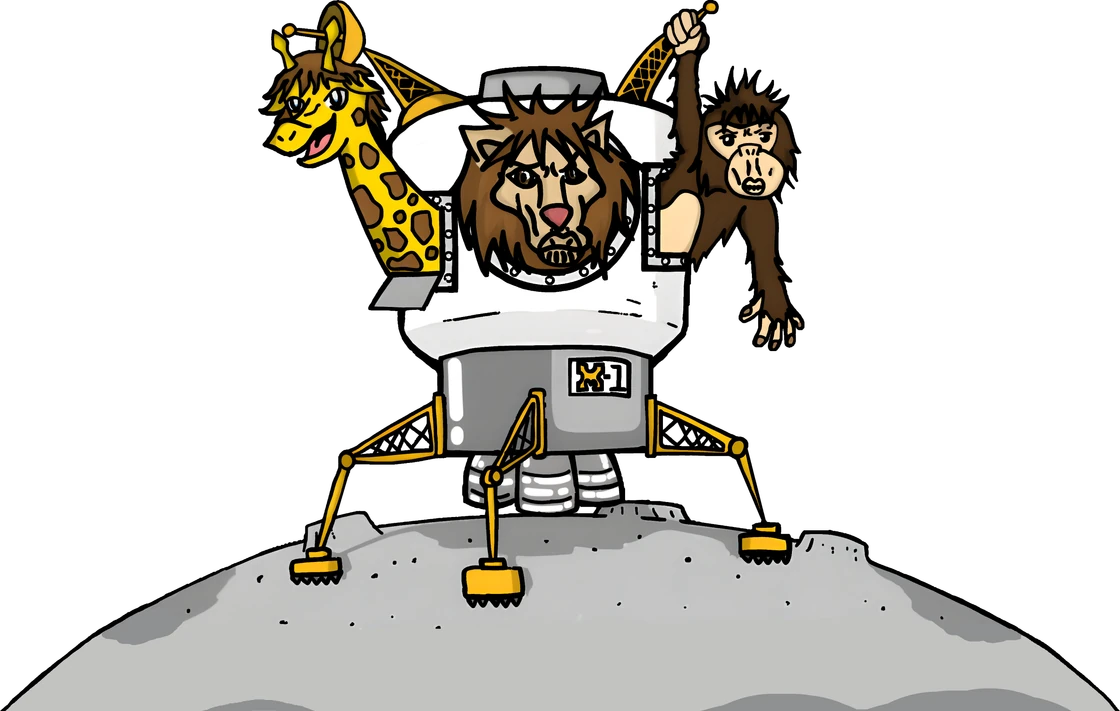
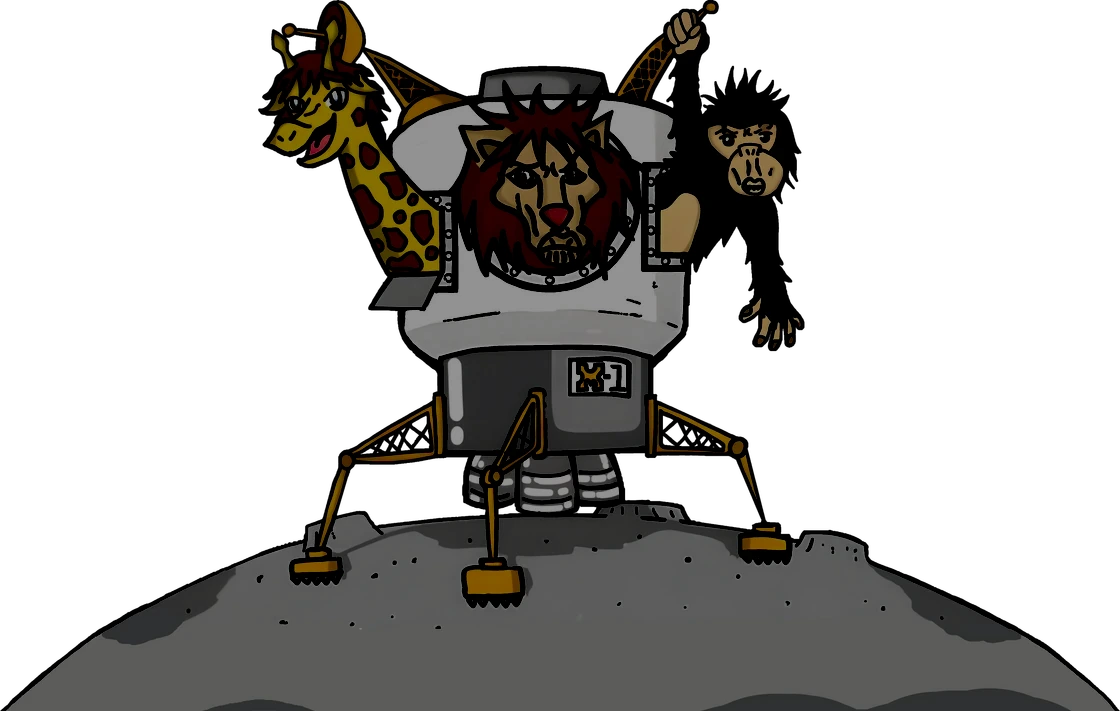
feat(design): retune the palette off the generated navy-and-gold axis
Feedback was that the app reads as machine-made, with the colour scheme
named specifically. The old ground was the second reflex, not the first:
this design correctly refused cyan-on-black sci-fi, then landed on
navy-with-a-gold-accent, which is the most-generated "premium dark tool"
palette in circulation.

The ground is now a neutral near-black whose tint scales up with
lightness, and the tint ramp is the rule rather than an oversight.
"Tint every neutral toward the brand hue" only holds for mid and light
neutrals; at near-black a warm hue reads as brown. Two warm grounds were
built and rejected on exactly that before landing here:

  navy      #080f1f  R/B 0.26
  warm #1   #0e0906  R/B 2.33  (chroma copied from the navy's 0.035)
  warm #2   #0c0a08  R/B 1.50  (halved; red-minus-blue only 4, still brown)
  neutral   #0a0a0a  R/B 1.00

Red-minus-blue is the wrong statistic at these luminances — a gap of 4 is
invisible at rgb(200) and a 50% cast at rgb(12). Judge a ground by its
hex, and at near-black by the ratio.

Healthy states stop being green. DESIGN.md's status-token rule has always
said colour is only for actionable state, and `.st--ok` was where the
shipped UI contradicted it: every ok chip, every LINKED, every "all
healthy" count rendered full-chroma green. A screenful of green dots
reporting that nothing needs doing is the generic-dashboard signature.

`--signal-bad` lifts to 0.66 because 0.64 measured 4.42:1 against
[…]

diff --git a/src/app/globals.css b/src/app/globals.css
@@ -7,24 +7,58 @@
 /* --- Tokens ------------------------------------------------------------- */
 
 :root {
-  /* Ground and structure. Every neutral is tinted toward the patch navy. */
-  --void: oklch(0.17 0.035 264);
-  --hull: oklch(0.22 0.04 264);
-  --hull-hi: oklch(0.27 0.042 264);
-  --rule: oklch(0.36 0.035 264);
-  /* Lightness fixed by WCAG 1.4.11: clears 3:1 on void, hull and hull-hi,
-     so a control's edge is identifiable on every ground it can sit on. */
-  --rule-strong: oklch(0.56 0.05 264);
+  /* Ground and structure. A neutral near-black, warming as it lightens.
+     Hue 54-58 where any hue applies at all, NOT the blue-slate axis this used
+     to sit on: navy-with-a-gold-
+     accent is the single most-generated "premium dark tool" palette in
+     circulation, and the ground reading as templated was the substance of the
+     feedback this palette answers. Warm ground also lets the seal's navy ring
+     separate from the header bar by hue, which it could not do on navy.
+     Measured, not asserted: every text token below clears 4.5:1 on all three
+     grounds, worst case 4.63 (--ink-faint on a hovered row).
+
+     THE TINT SCALES WITH LIGHTNESS, and that is the whole rule here. It took
+     three passes to get right, so the failed ones are worth recording.
+
+     "Tint every neutral toward the brand hue" is sound advice that silently
+     assumes mid-to-light neutrals. At near-black it inverts: a warm hue reads
+     as BROWN, not as a tinted grey, and the eye judges it by the red-to-blue
+     RATIO rather than the difference. Pass one copied the old navy's chroma
+     (0.035) down to 0.012, which looked conservative in OKLCH and rendered
+     #0e0906 — blue at 57% of red, unmistakably brown, and the first thing
+     anyone said about it. Pass two halved it to 0.006: #0c0a08, R/B still
+     1.50, still visibly brown. The absolute gap was only 4 by then, which is
+     why "R-B is small" was the wrong reassurance — 4 is nothing at rgb(200)
+     and a 50% cast at rgb(12).
+
+     So the ramp below: --void is neutral outright, and each lighter token
+     carries a little more hue, because that is where a tint reads as a tint.
+     The system's warmth lives in --ink, the gold, and the artwork — none of
+     which are near-black, all of which read warm without dragging the page
+     brown. Judge these by R/B in sRGB, never by chroma in OKLCH. */
+  --void: oklch(0.145 0 58);
+  --hull: oklch(0.195 0.001 56);
+  --hull-hi: oklch(0.245 0.002 54);
+  --rule: oklch(0.33 0.004 55);
+  /* Lightness fixed by WCAG 1.4.11: 4.24 / 3.92 / 3.48 against void, hull and
+     hull-hi, so a control's edge is identifiable on every ground it can sit
+     on. */
+  --rule-strong: oklch(0.56 0.008 58);
 
   /* Ink. Warm cream, tinted toward the patch gold. */
-  --ink: oklch(0.94 0.012 85);
-  --ink-dim: oklch(0.78 0.015 85);
-  --ink-faint: oklch(0.66 0.02 264);
+  --ink: oklch(0.93 0.014 85);
+  --ink-dim: oklch(0.77 0.016 80);
+  --ink-faint: oklch(0.63 0.018 70);
 
   /* Signal. Gold is identity; the three signals are semantic, never decor. */
   --gold: oklch(0.83 0.155 88);
   --gold-dim: oklch(0.72 0.14 84);
-  --signal-ok: oklch(0.76 0.13 158);
+  /* Chroma pulled from 0.13 to 0.09. `ok` is the state nobody needs to act on
+     (see the .st--ok rule below, which now spends --ink-dim on it), so the
+     token is kept only for the few places health is genuinely the subject
+     rather than the default. A full-chroma green there is the dashboard
+     signature the palette is getting away from. */
+  --signal-ok: oklch(0.74 0.09 150);
   /* Hue 50, not the 70 this started at. At 70 the warn signal sat 18 degrees
      from --gold / --tier-member with near-identical chroma and 0.03 of
      lightness between them — 0.057 apart in OKLab, which is not enough to
@@ -41,17 +75,22 @@
      0.104 clears it, and colour is never the only carrier anyway (the token
      carries its own word and glyph).
 
-     Contrast is unchanged in kind: 9.43 / 8.54 / 7.44 / 8.41 against --void /
-     --hull / --hull-hi / a hovered row, all far above the 4.5:1 it needs as
-     text and the 3:1 it needs as the .notice--warn border. */
+     Contrast on the neutral ground: 9.75 / 9.01 / 8.00 against --void /
+     --hull / --hull-hi, all far above the 4.5:1 it needs as text and the 3:1
+     it needs as the .notice--warn border. */
   --signal-warn: oklch(0.8 0.15 50);
-  --signal-bad: oklch(0.68 0.19 25);
+  /* 0.66, not the 0.68 of the navy palette and not the 0.64 the first dark probe
+     used. 0.64 measured 4.42 against --hull-hi — under the 4.5 floor exactly
+     when the pointer is on the row, which is the same class of bug as the
+     disabled-opacity one recorded further down. 0.66 measures 5.83 / 5.39 /
+     4.79. Do not darken this to match the ground. */
+  --signal-bad: oklch(0.66 0.19 26);
 
   /* Tiers separate by lightness as well as hue, so they survive
      deuteranopia and protanopia. Always paired with the name in text. */
   --tier-member: oklch(0.83 0.155 88);
-  --tier-associate: oklch(0.72 0.13 245);
-  --tier-alumni: oklch(0.76 0.13 158);
+  --tier-associate: oklch(0.72 0.115 235);
+  --tier-alumni: oklch(0.74 0.09 150);
 
   /* Space: 4 8 12 16 24 32 48 64 96. Rhythm comes from varying the step. */
   --s-1: 0.25rem;
@@ -2348,8 +2387,18 @@ h3.rule-head__label {
   border-radius: 1px;
 }
 
+/* Healthy is not an event. DESIGN.md's status-token rule has always said
+   "colour only when the state is actionable; neutral states stay --ink-dim",
+   and this rule was the place the shipped UI contradicted it: every `ok`
+   chip, every LINKED, every "all healthy" count rendered full-chroma green.
+   A screen of green dots reporting that nothing needs doing is the
+   generic-dashboard signature, and it spends the eye's attention on exactly
+   the rows that have no claim on it.
+   --signal-ok is not deleted — it is still right where health is genuinely
+   the subject rather than the default (see .notice--ok) — but the default
+   `ok` token is now as quiet as what it reports. */
 .st--ok {
-  color: var(--signal-ok);
+  color: var(--ink-dim);
 }
 
 .st--ok::before {

diff --git a/DESIGN.md b/DESIGN.md
@@ -14,37 +14,85 @@ typed telemetry, a printed seal — rendered for a dark room.
 
 The scene that fixes the theme: *an EVE player alt-tabbed at 1am, the monitor the only
 light in the room, checking whether an alt's token still works before a fleet forms.*
-That forces dark. It does not force black: the ground is the mission patch's own navy,
-so the surface belongs to the brand rather than defaulting to a void.
+That forces dark, and the audience settles it independently: EVE's own client is dark
+and its players expect dark, so a light ground is not on the table however well it
+would suit the artwork.
+
+The ground is a **neutral near-black**, not the mission patch's navy it started as.
+Navy-with-a-gold-accent is the single most-generated "premium dark tool" palette in
+circulation; the first reflex for anything space-adjacent is a cyan-on-black HUD, and
+this design correctly refused that, then landed squarely on the *second* reflex
+instead. Feedback that the app felt machine-made named the colour scheme specifically,
+and this is what it was naming.
+
+It reached neutral by overshooting twice, which is worth recording so nobody re-adds
+the tint as an improvement. Both intermediate grounds were warm — the aim was a ground
+that belonged to the brand rather than a default — and both read as **brown** on
+screen rather than as a warm grey. See "Judge a ground by its hex" below for why the
+notation hid it. The colour that carries the brand is the gold and the cream ink,
+which sit at lightnesses where warmth reads as warmth; the ground's job is to stay out
+of their way.
 
 The deliberate distance from the obvious: this is **not** a sci-fi HUD. No cyan, no
 glow, no clipped corners, no scanlines. It is paper, ink, and rules — the flight log,
 not the cockpit display. Structure comes from hairlines and typographic hierarchy, not
 from boxes and shadows.
 
+A note on how far that metaphor goes, because it was tested and bounded. Making the
+page *literally* paper (light ground), and then making the manifest a paper panel on a
+dark desk, were both built and rejected — the first on audience, the second because
+bright panels on a dark ground read as rectangles taped to a board. The flight-log
+character lives in the rules, the type and the artwork, not in a light surface.
+
 ## Color
 
-**Strategy: Committed.** Navy carries the surface. Gold is the single emphasis colour
-and stays scarce. Everything is OKLCH, and every neutral is tinted toward the navy or
-gold hue — nothing is pure grey, nothing is `#000` or `#fff`.
+**Strategy: Committed.** A neutral near-black carries the surface. Gold is the single
+emphasis colour and stays scarce. Everything is OKLCH, and nothing is `#000` or
+`#fff`.
+
+**The tint scales with lightness, and the darkest ground carries none.** "Tint every
+neutral toward the brand hue" is the usual advice and this document used to state it
+flatly; it is only true of mid and light neutrals. `--void` is chroma `0` on purpose —
+at that lightness any warm tint reads as brown rather than as a tinted grey — and each
+lighter structure token carries a little more, up to `--rule-strong`. Do not "restore"
+a tint to `--void` for consistency with the rest of the ramp: the ramp *is* the rule.
+
+Every text token below was measured against all three grounds rather than asserted;
+the worst case is `--ink-faint` at 4.63:1 on a hovered row, and nothing sits under
+4.5:1. Two of these values exist *because* of that measurement rather than taste:
+`--signal-bad` is `0.66` because `0.64` measured 4.42 against `--hull-hi` (under the
+floor exactly when the pointer is on the row), and `--rule-strong` holds its lightness
+for the 3:1 boundary rule. Re-run the check before retuning any of them.
+
+**Judge a ground by its hex, never by its chroma — and at near-black, by the
+red-to-blue RATIO rather than the difference.** This took three passes. The tokens
+were first set by analogy to the navy they replaced, whose chroma was `0.035`, so
+`0.012` looked conservative in OKLCH; it rendered `#0e0906` — red 14, blue 6 — and
+"it's brown" was the first thing anyone said. Halving to `0.006` gave `#0c0a08`, an
+absolute red-minus-blue gap of just 4, which sounded like nothing and was still
+visibly brown: at `rgb(12,10,8)` that gap is a **1.50 red-to-blue ratio**. The same
+gap of 4 is invisible at `rgb(200)`. Absolute spread is the wrong statistic down here.
+`--void` is now `#0a0a0a`, ratio 1.00.
+
+OKLCH is the right space to *tune* in and the wrong one to *judge* in.
 
 ### Ground and structure
 
 | Token | Value | Use |
 |---|---|---|
-| `--void` | `oklch(0.17 0.035 264)` | Page ground. Patch navy, taken deep. |
-| `--hull` | `oklch(0.22 0.04 264)` | Panels, table headers, inset regions. |
-| `--hull-hi` | `oklch(0.27 0.042 264)` | Row hover, raised controls, pressed states. |
-| `--rule` | `oklch(0.36 0.035 264)` | Hairlines. The primary structural device. |
-| `--rule-strong` | `oklch(0.56 0.05 264)` | Section boundaries, control borders. Lightness is set by WCAG 1.4.11: it clears 3:1 against `--void`, `--hull`, and `--hull-hi`, so a control's edge is identifiable on every ground it can sit on. |
+| `--void` | `oklch(0.145 0 58)` | Page ground. Neutral near-black (`#0a0a0a`). |
+| `--hull` | `oklch(0.195 0.001 56)` | Panels, table headers, inset regions. |
+| `--hull-hi` | `oklch(0.245 0.002 54)` | Row hover, raised controls, pressed states. |
+| `--rule` | `oklch(0.33 0.004 55)` | Hairlines. The primary structural device. |
+| `--rule-strong` | `oklch(0.56 0.008 58)` | Section boundaries, control borders. Lightness is set by WCAG 1.4.11: it measures 4.24 / 3.92 / 3.48 against `--void`, `--hull`, and `--hull-hi`, so a control's edge is identifiable on every ground it can sit on. |
 
 ### Ink
 
 | Token | Value | Use |
 |---|---|---|
-| `--ink` | `oklch(0.94 0.012 85)` | Primary text. Warm cream, tinted to gold. |
-| `--ink-dim` | `oklch(0.78 0.015 85)` | Secondary text, data cells. |
-| `--ink-faint` | `oklch(0.66 0.02 264)` | Labels, metadata, timestamps. |
+| `--ink` | `oklch(0.93 0.014 85)` | Primary text. Warm cream, tinted to gold. |
+| `--ink-dim` | `oklch(0.77 0.016 80)` | Secondary text, data cells. |
+| `--ink-faint` | `oklch(0.63 0.018 70)` | Labels, metadata, timestamps. |
 
 ### Signal
 
@@ -54,9 +102,9 @@ Gold is identity and emphasis. The three signals are semantic and never decorati
 |---|---|---|
 | `--gold` | `oklch(0.83 0.155 88)` | Brand mark, active nav, primary action, Member tier. |
 | `--gold-dim` | `oklch(0.72 0.14 84)` | Gold borders, hover on gold surfaces. |
-| `--signal-ok` | `oklch(0.76 0.13 158)` | Healthy token, present on map, linked. |
+| `--signal-ok` | `oklch(0.74 0.09 150)` | Reserved for where health is genuinely the subject (`.notice--ok`). **Not** the default `ok` status token, which takes `--ink-dim` — see "Status token" below. |
 | `--signal-warn` | `oklch(0.80 0.15 50)` | Needs re-auth, scope shortfall, cryo (admin table only — an admin scans for it; the member's own account page reads cryo in `--ink-dim` instead, since it's a pause the member asked for, not a fault). Hue 50 rather than the 70 this started at: at 70 the warn signal sat 18° from `--gold`/`--tier-member` at near-identical chroma and lightness — 0.057 apart in OKLab, not enough to tell a gold Member badge from an amber CRYO token two columns away in the same mono uppercase. 50 nearly doubles that to 0.104 while holding 0.146 from `--signal-bad`. Warn remains nearer to gold than to bad, deliberately: equalising the two means rotating to about hue 37, buying separation from identity by spending it on failure, and mistaking a warning for an error is the worse confusion. The bar is legibility against gold, not equidistance. |
-| `--signal-bad` | `oklch(0.68 0.19 25)` | Dead token, failed sync, destructive action. |
+| `--signal-bad` | `oklch(0.66 0.19 26)` | Dead token, failed sync, destructive action. |
 
 ### Tier colours
 
@@ -67,8 +115,8 @@ the enum value, so the pairing holds however a deployment renames its tiers.
 | Tier | Token | Value |
 |---|---|---|
 | Member | `--tier-member` | `oklch(0.83 0.155 88)` (gold) |
-| Associate | `--tier-associate` | `oklch(0.72 0.13 245)` |
-| Alumni | `--tier-alumni` | `oklch(0.76 0.13 158)` |
+| Associate | `--tier-associate` | `oklch(0.72 0.115 235)` |
+| Alumni | `--tier-alumni` | `oklch(0.74 0.09 150)` |
 
 Pending has no hue of its own. It renders achromatic in `--ink-dim`: the three
 colours above are tuned as a set, and "not yet approved" reads better as an
@@ -225,6 +273,14 @@ you what it holds.
   inside a focusable, labelled region so keyboard users can reach the overflow.
 - **Status token** — mono, uppercase, small, with a leading geometric glyph.
   Colour only when the state is actionable; neutral states stay in `--ink-dim`.
+  **`ok` is a neutral state.** This rule was written from the start and the
+  shipped UI contradicted it for a long time: `.st--ok` took `--signal-ok`, so
+  every healthy chip, every `LINKED`, and every "all healthy" count rendered
+  full-chroma green. A screenful of green dots reporting that nothing needs
+  doing is the generic-dashboard signature, and it spends the eye on exactly
+  the rows with no claim on it. `.st--ok` now takes `--ink-dim`. Do not
+  "restore" the green: an `ok` that has to shout is an `ok` competing with the
+  one row that isn't.
 - **Tier badge** — the tier name in mono uppercase, on a low-chroma tint of its own
   hue, with a `1px` border in the full-chroma hue. A lock glyph when the tier is
   admin-pinned.
@@ -271,6 +327,14 @@ configuration, the other two by overwriting the file.
   ground. Referenced by path from `globals.css`; not configurable.
 - `public/brand/hero-account.webp` — the account page illustration, cut for the size
   it is drawn at. Referenced by path from the account page; not configurable.
+  Held as a **night cut**: the same drawing with its lightness pulled down
+  (`modulate({ lightness: -40 })`), so it sits in the page instead of glowing on
+  top of it. At full brightness this is the lightest object on any screen in the
+  app and reads as a sticker pasted on the ground. Faoble has cleared
+  modification of the artwork; the master is in git history.
+  The same treatment was tried on `mark.webp` and **rejected** — at 34px the
+  gold rope goes out and the disc turns to mud. A mark that small needs more
+  separation from its ground, not less. Recut the illustration, never the mark.
 
 ## Focus and states
 
